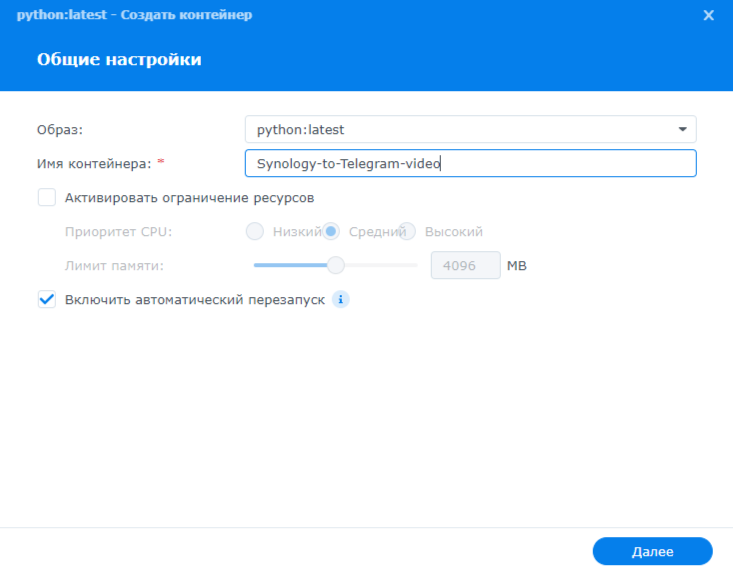
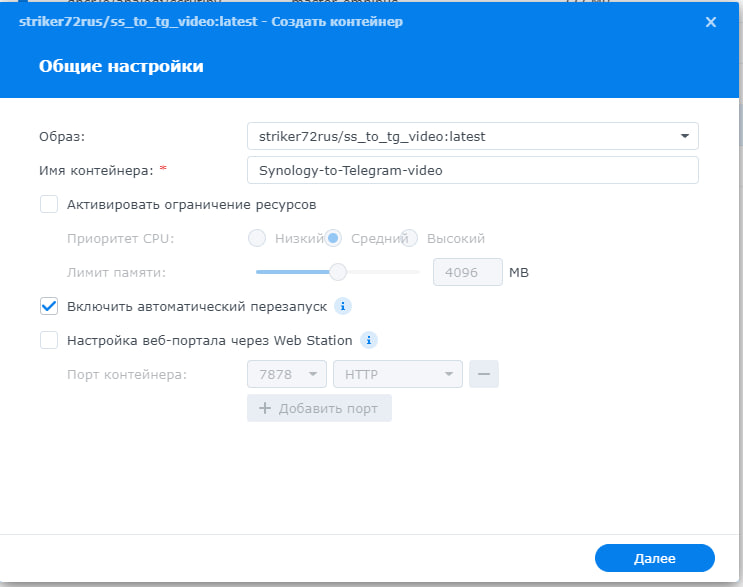
update
Добавление docker-compose, Dockerfile.
Обновил код, для телеграмма используется telebot. Для веб-сервера использую gunicorn.
Добавил проверки на конфигурационные переменные. Удалил вебхук порт, добавил порт synology (некоторые меняют со стандартного)

diff --git a/Python code/main.py b/Python code/main.py
@@ -4,60 +4,95 @@ import os
 import json
 import subprocess
 import sys
-import importlib.util
+import logging
 
-#import requests
-#import telebot
-#from flask import Flask, request, abort
+py_formatter = logging.Formatter("%(asctime)s - [%(levelname)s] -  %(name)s - (%(filename)s).%(funcName)s(%(lineno)d) - %(message)s")
+log = logging.getLogger(__name__)
+sh = logging.StreamHandler(sys.stdout)
+sh.setFormatter(py_formatter)
+log.addHandler(sh)
+log.setLevel(logging.DEBUG)
 
 # Auto pip install ----------------------------------------------------------------------------------------
 try:
     import telebot
-    print('The telebot module is installed')
+    log.info('The telebot module is installed')
 except ModuleNotFoundError:
-    print('The telebot module is NOT installed')
-    print('The telebot module is Installing...')
+    log.info('The telebot module is NOT installed')
+    log.info('The telebot module is Installing...')
     subprocess.check_call([sys.executable, '-m', 'pip', 'install', 'telebot'], stdout=subprocess.DEVNULL)
 finally:
     import telebot
 #----------
 try:
     from flask import Flask, request, abort
-    print('The flask module is installed')
+    log.info('The flask module is installed')
 except ModuleNotFoundError:
-    print('The flask module is NOT installed')
-    print('The flask module is Installing...')
+    log.info('The flask module is NOT installed')
+    log.info('The flask module is Installing...')
     subprocess.check_call([sys.executable, '-m', 'pip', 'install', 'flask'], stdout=subprocess.DEVNULL)
 finally:
     from flask import Flask, request, abort
 #----------
 try:
     import requests
-    print('The requests module is installed')
+    log.info('The requests module is installed')
 except ModuleNotFoundError:
-    print('The requests module is NOT installed')
-    print('The requests module is Installing...')
+    log.info('The requests module is NOT installed')
+    log.info('The requests module is Installing...')
     subprocess.check_call([sys.executable, '-m', 'pip', 'install', 'requests'], stdout=subprocess.DEVNULL)
 finally:
     import requests
 #----------------------------------------------------------------------------------------------------------
 
+#validate
+if 'TG_CHAT_ID' not in os.environ:
+    log.info('TG_CHAT_ID does not exist. Please configurate environment')
+    sys.exit()
+if 'TG_TOKEN' not in os.environ:
+    log.info('TG_TOKEN does not exist. Please configurate environment')
+    sys.exit()
+if 'SYNO_IP' not in os.environ:
+    log.info('SYNO_IP does not exist. Please configurate environment')
+    sys.exit()
+if 'SYNO_PORT' not in os.environ:
+    log.info('SYNO_PORT does not exist. Please configurate environment')
+    sys.exit()
+if 'SYNO_LOGIN' not in os.environ:
+    log.info('SYNO_LOGIN does not exist. Please configurate environment')
+    sys.exit()
+if 'SYNO_PASS' not in os.environ:
+    log.info('SYNO_PASS does not exist. Please configurate environment')
+    sys.exit()
+
 chat_id = os.environ['TG_CHAT_ID']
 token = os.environ['TG_TOKEN']
 
+tg_bot = telebot.TeleBot(token)
+
 syno_ip = os.environ['SYNO_IP']
-synohook_port = os.environ['SYNOHOOK_PORT']
-syno_url = 'http://' + syno_ip + ':5000/webapi/entry.cgi'
+syno_url = 'http://' + syno_ip + ':' + os.environ['SYNO_PORT'] + '/webapi/entry.cgi'
 syno_login = os.environ['SYNO_LOGIN']
 syno_pass = os.environ['SYNO_PASS']
-syno_otp = os.environ['SYNO_OTP']
+if 'SYNO_OTP' in os.environ:
+    syno_otp = os.environ['SYNO_OTP']
 
 config_file = '/bot/syno_cam_config.json'
 arr_cam_move = {}
 
+# Send Telegram message
+def send_cammessage(message):
+    tg_bot.send_message(chat_id, message)
+    
+def send_camvideo(videofile, cam_id):
+    mycaption = "Camera " + str(cam_load[cam_id]['SynoName'])
+    video = open(videofile, 'rb')
+    tg_bot.send_video(chat_id, video, None, None, None, None, mycaption)
+
+
 def firstStart():
     # With OTP code
-    if syno_otp != '0':
+    if 'syno_otp' in locals():
         sid = requests.get(syno_url,
             params={'api': 'SYNO.API.Auth', 'version': '7', 'method': 'login',
                     'account': syno_login, 'passwd': syno_pass, 'otp_code': syno_otp,
@@ -68,7 +103,7 @@ def firstStart():
             params={'api': 'SYNO.API.Auth', 'version': '7', 'method': 'login',
                     'account': syno_login, 'passwd': syno_pass,
                     'session': 'SurveillanceStation', 'format': 'cookie12'}).json()['data']['sid']
-    print(sid)            
+    log.info(sid)            
     # Cameras config
     cameras = requests.get(syno_url,
         params={'api': 'SYNO.SurveillanceStation.Camera',
@@ -85,28 +120,28 @@ def firstStart():
                         + ' IP: ' + cameras['data']['cameras'][i]['ip']
                         + ' SynoName: ' + cameras['data']['cameras'][i]['newName']
                         + ' Model: ' + cameras['data']['cameras'][i]['model']
-                        + ' Vendor: ' + cameras['data']['cameras'][i]['vendor'] + '%0A')
-    print(cam_conf_text)
+                        + ' Vendor: ' + cameras['data']['cameras'][i]['vendor'] + '\n')
+    log.info(cam_conf_text)
     data['SynologyAuthSid'] = sid
 
     with open(config_file, "w") as f:
         json.dump(data, f)
-    print("Config saved successfully.")
+    log.info("Config saved successfully.")
     # Send Telegram Cameras config
-    mycaption = "Cameras config:%0A" + cam_conf_text
-    requests.post(f"https://api.telegram.org/{token}/sendMessage?chat_id={chat_id}&text={mycaption}")
+    mycaption = "Cameras config:\n" + cam_conf_text
+    send_cammessage(mycaption)
 
 
 if not pathlib.Path(config_file).is_file():
-    print('Not Found Syno config, need create')
+    log.info('Not Found Syno config, need create')
     firstStart()
 
 if pathlib.Path(config_file).stat().st_size == 0:
-    print('Syno config is empty.')
+    log.info('Syno config is empty.')
     firstStart()
 
 if pathlib.Path(config_file).stat().st_size == 0:
-    print('Syno config always is empty. Exit.')
+    log.info('Syno config always is empty. Exit.')
     sys.exit()
 
 with open(config_file) as f:
@@ -129,20 +164,6 @@ def get_last_video(video_id, offset):
                 'method': 'Download', 'offsetTimeMs': offset, 'playTimeMs': '10000','_sid': syno_sid}, allow_redirects=True)
     open('/bot/temp.mp4', 'wb').write(download.content)
     return 
-    
-# Send Telegram message
-def send_cammessage(cam_id):
-    mycaption = "Camera " + str(cam_load[cam_id]['SynoName'])
-    requests.post(f"https://api.telegram.org/{token}/sendMessage?chat_id={chat_id}&text={mycaption}")
-    
-    
-# Send Telegram video
-def send_camvideo(videofile):
-    url = f"https://api.telegram.org/{token}/sendVideo"
-    myfiles = {"chat_id": (None, chat_id), "video": open(videofile, 'rb')}
-    send_video = requests.post(url, files=myfiles).json()
-    print('Send:', send_video['ok'])
-    print('File_Id:', send_video['result']['video']['file_id'])
 
 def get_alarm_camera_state(cam_id):
     take_alarm = requests.get(syno_url,
@@ -158,22 +179,20 @@ def webhookcam():
     global arr_cam_move
     if request.method == 'POST':
        cam_id = request.json['idcam']
-       print("Received IDCam:", cam_id, ',', time.strftime("%d.%m.%Y, %H:%M:%S", time.localtime()))
+       log.info("Received IDCam: "+ cam_id + ', '+ time.strftime("%d.%m.%Y, %H:%M:%S", time.localtime()))
        time.sleep(5)
        last_video_id = get_last_id_video(cam_id)
        if last_video_id != arr_cam_move[cam_id]['old_last_video_id']:
            get_last_video(last_video_id, '0')
-           send_cammessage(cam_id)
+           mycaption = "Camera " + str(cam_load[cam_id]['SynoName'])
+           send_cammessage(mycaption)
            arr_cam_move[cam_id]['old_last_video_id'] = last_video_id
            arr_cam_move[cam_id]['video_offset'] = 0
        else:
            arr_cam_move[cam_id]['video_offset'] += 10000
            get_last_video(last_video_id, str(arr_cam_move[cam_id]['video_offset']))
-       send_camvideo('/bot/temp.mp4')
+       send_camvideo('/bot/temp.mp4',cam_id)
        return 'success', 200
     else:
        abort(400)
        
-if __name__ == '__main__':
-   app.run(host='0.0.0.0', port=synohook_port)
-   
